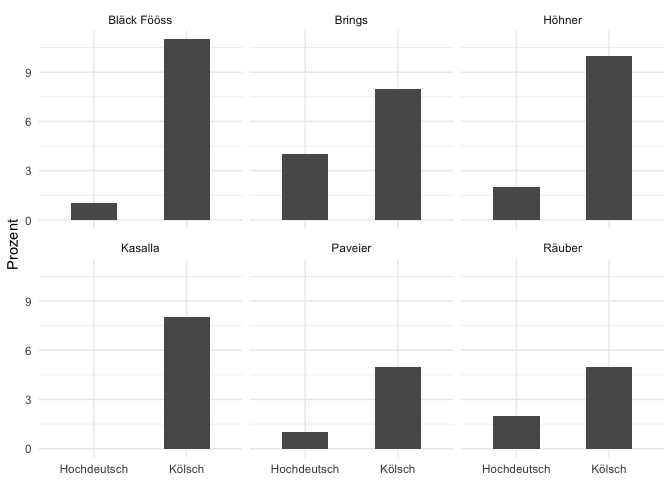
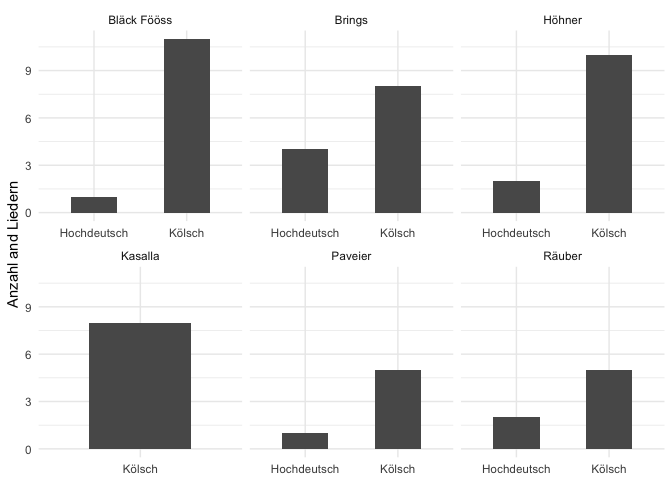
Modify legends of barplot

diff --git a/fastelovend.md b/fastelovend.md
@@ -115,8 +115,8 @@ data %>%
     filter(count_songs >= 6) %>% 
     ggplot(aes(x = Sprache)) +
     geom_bar(width = 0.5) +
-    facet_wrap(~Interpret) +
-    labs(x = NULL, y = "Prozent")
+    facet_wrap(~Interpret, scales = "free_x") +
+    labs(x = NULL, y = "Anzahl and Liedern")
 ```
 
 ![](fastelovend_files/figure-markdown_github/unnamed-chunk-7-1.png)
